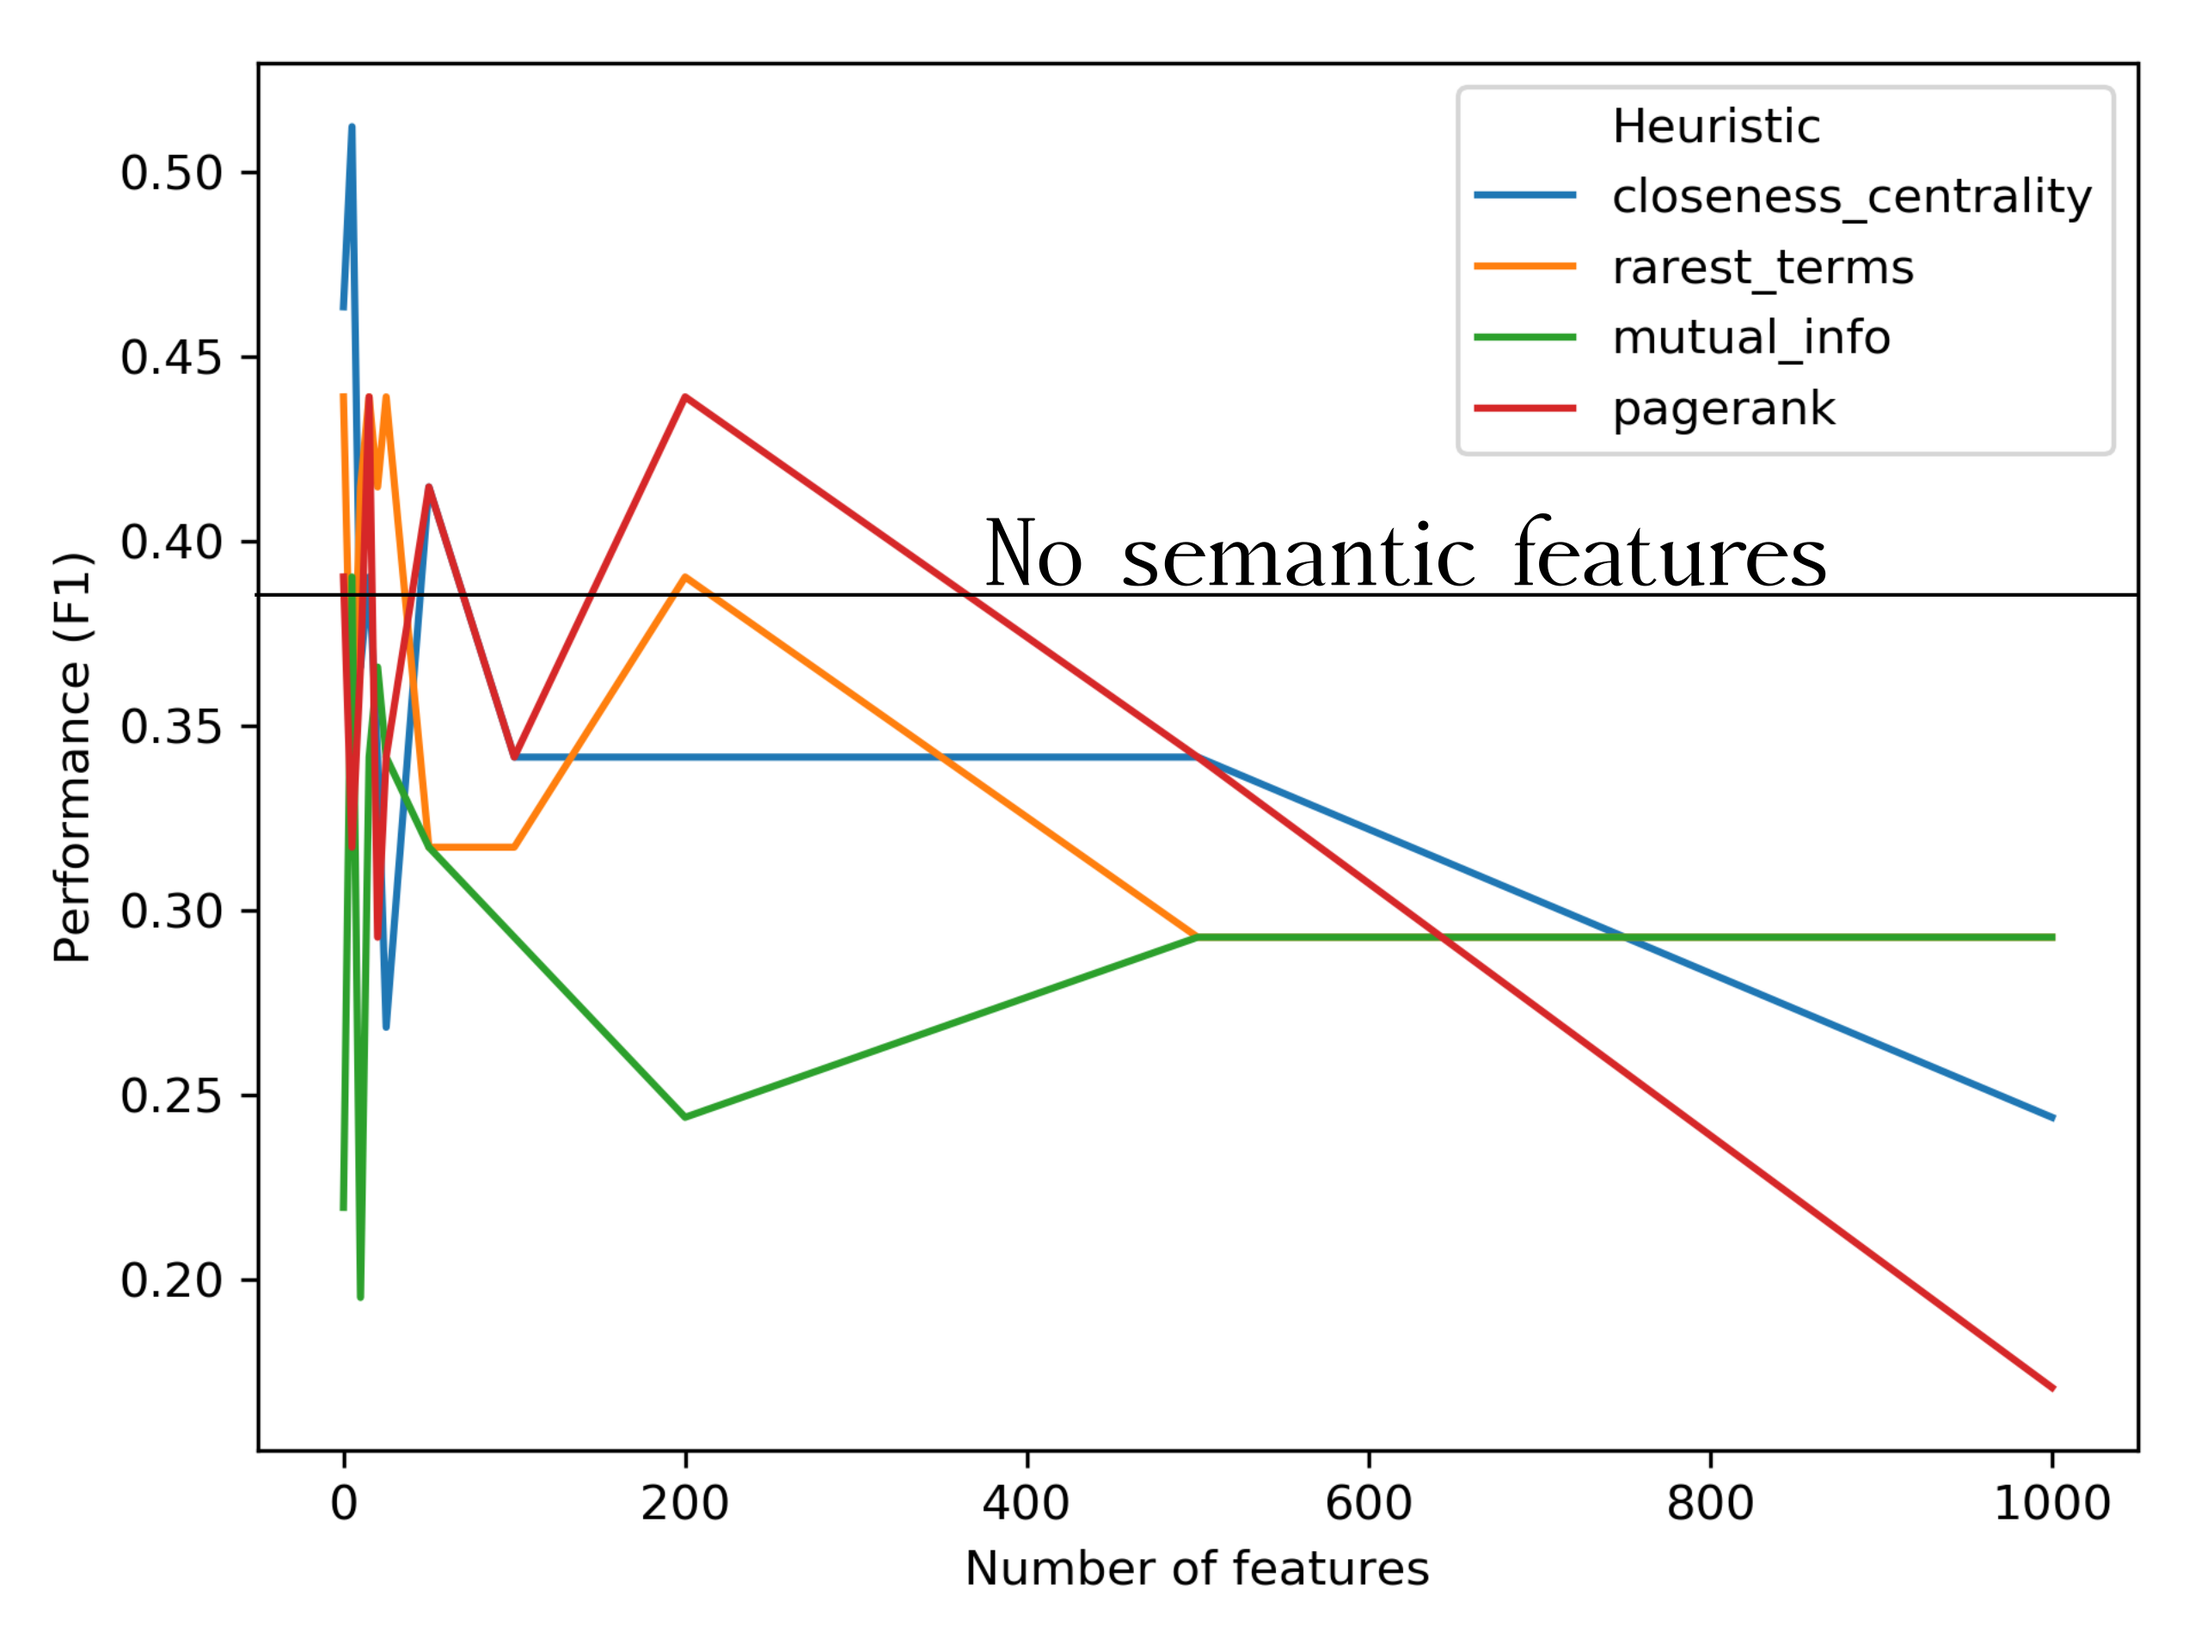
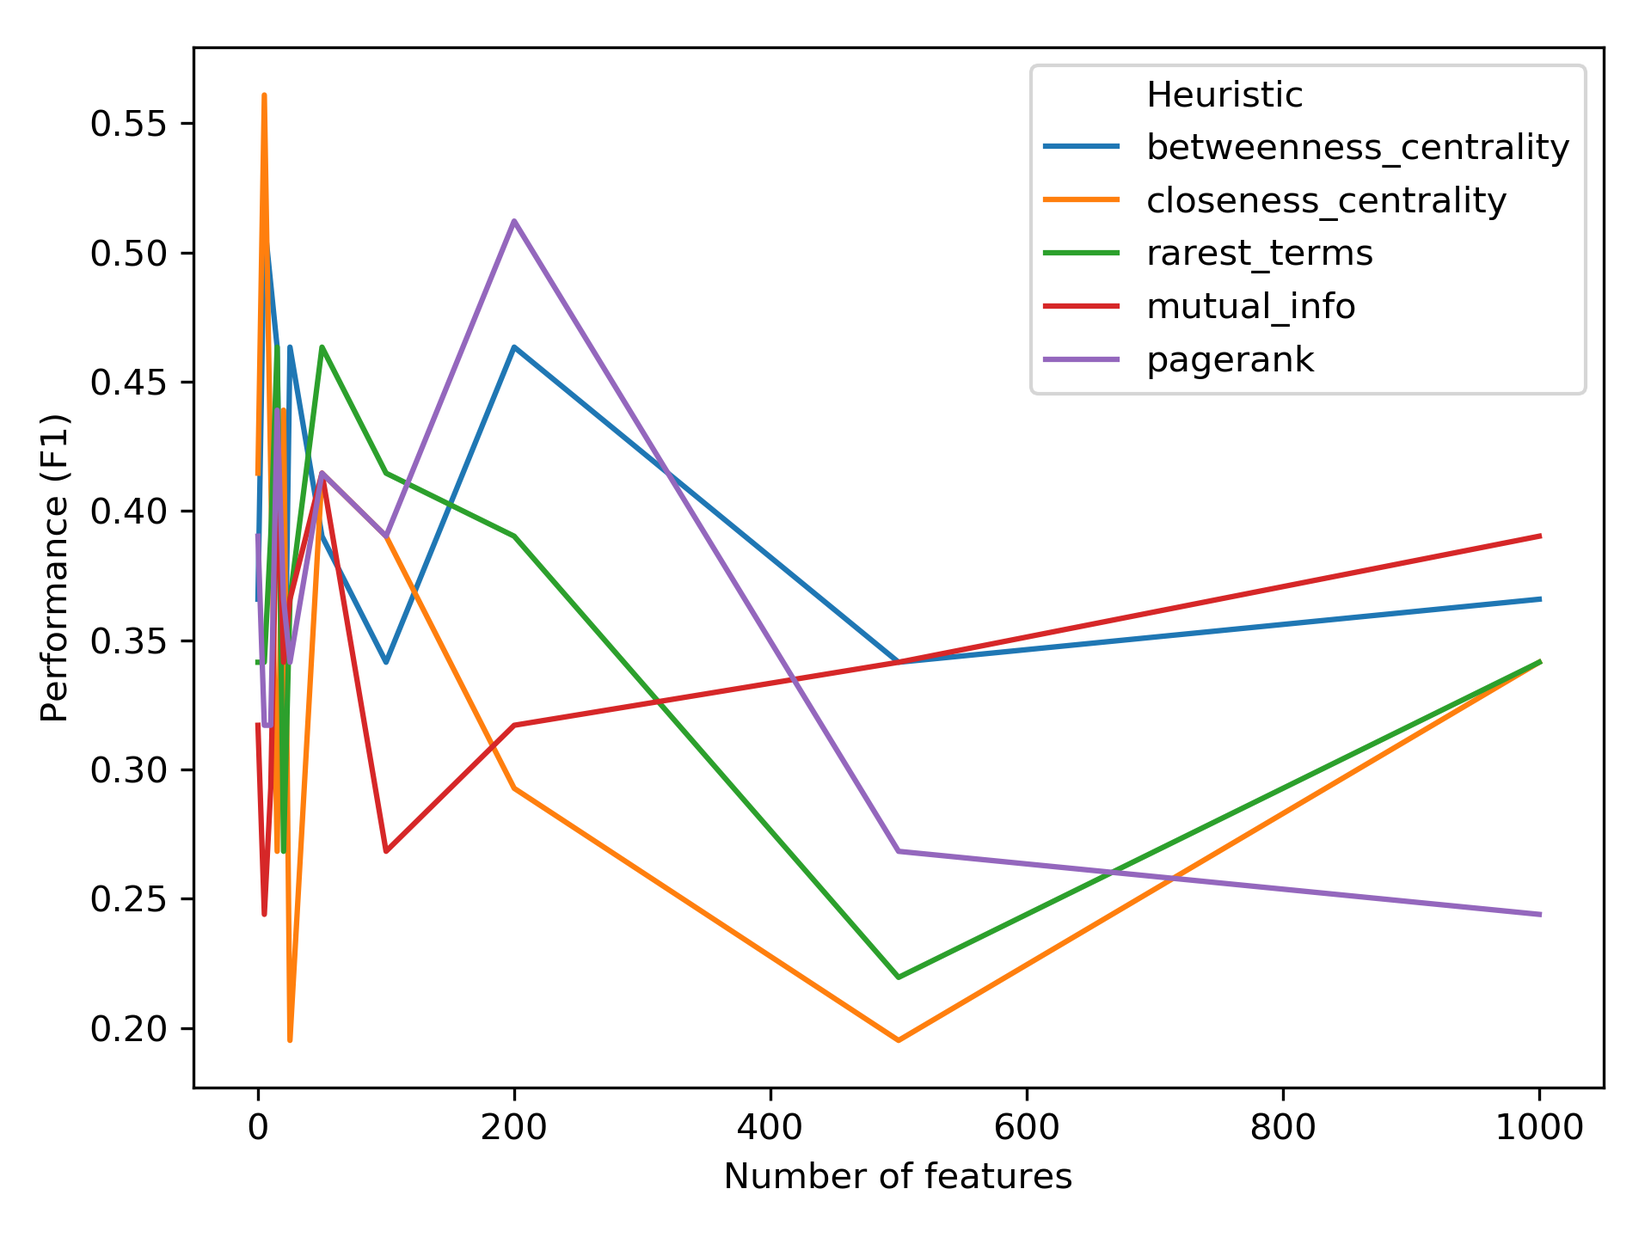
b2

diff --git a/build/lib/tax2vec/__init__.py b/build/lib/tax2vec/__init__.py
@@ -82,6 +82,7 @@ class tax2vec:
             "closeness_centrality",
             "rarest_terms",
             "mutual_info",
+            "betweenness_centrality",
             "pagerank"]
         self.reversed_wmap = None
         self.doc_seqs = None
@@ -287,7 +288,10 @@ class tax2vec:
         self.monitor("Selecting semantic terms..")
         if self.heuristic == "closeness_centrality":
             self.heuristic_closeness()
-
+            
+        if self.heuristic == "betweenness_centrality":
+            self.heuristic_betweenness()
+            
         elif self.heuristic == "rarest_terms":
             self.heuristic_specificity()
 
@@ -450,6 +454,19 @@ class tax2vec:
             else:
                 break
 
+    def heuristic_betweenness(self):
+        '''
+        Closeness centrality method
+        '''
+
+        eigC = nx.betweenness_centrality(self.WN)
+        self.semantic_candidates = []
+        for en, k in enumerate(sorted(eigC, key=eigC.get, reverse=False)):
+            if en < self.max_features:
+                self.semantic_candidates.append(k)
+            else:
+                break
+            
     def heuristic_specificity(self):
         '''
         Simple term count-sort combination

diff --git a/tax2vec/__init__.py b/tax2vec/__init__.py
@@ -82,6 +82,7 @@ class tax2vec:
             "closeness_centrality",
             "rarest_terms",
             "mutual_info",
+            "betweenness_centrality",
             "pagerank"]
         self.reversed_wmap = None
         self.doc_seqs = None
@@ -287,7 +288,10 @@ class tax2vec:
         self.monitor("Selecting semantic terms..")
         if self.heuristic == "closeness_centrality":
             self.heuristic_closeness()
-
+            
+        if self.heuristic == "betweenness_centrality":
+            self.heuristic_betweenness()
+            
         elif self.heuristic == "rarest_terms":
             self.heuristic_specificity()
 
@@ -450,6 +454,19 @@ class tax2vec:
             else:
                 break
 
+    def heuristic_betweenness(self):
+        '''
+        Closeness centrality method
+        '''
+
+        eigC = nx.betweenness_centrality(self.WN)
+        self.semantic_candidates = []
+        for en, k in enumerate(sorted(eigC, key=eigC.get, reverse=False)):
+            if en < self.max_features:
+                self.semantic_candidates.append(k)
+            else:
+                break
+            
     def heuristic_specificity(self):
         '''
         Simple term count-sort combination

diff --git a/examples/demo_classification.py b/examples/demo_classification.py
@@ -62,7 +62,7 @@ if __name__ == "__main__":
     import time
     start = time.time()
     output = []
-    for heuristic in ["closeness_centrality", "rarest_terms", "mutual_info", "pagerank"]:
+    for heuristic in ["betweenness_centrality","closeness_centrality", "rarest_terms", "mutual_info", "pagerank"]:
         for fn in [0, 5, 10, 15, 20, 25, 50, 100, 200, 500, 1000]:
             score = example_run(fn, heuristic=heuristic)
             output.append([fn, score, heuristic])
@@ -79,4 +79,3 @@ if __name__ == "__main__":
     # example_run(10)
     # print("50 semantic features")
     # example_run(50)
-
